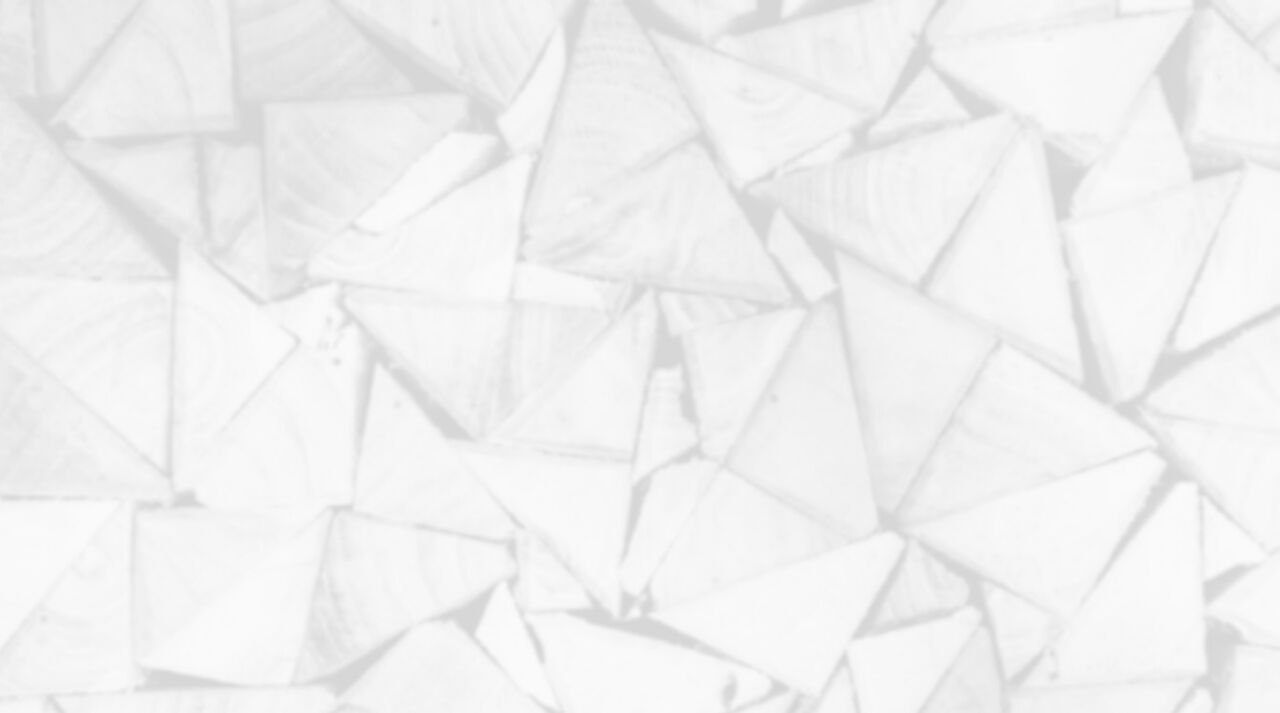
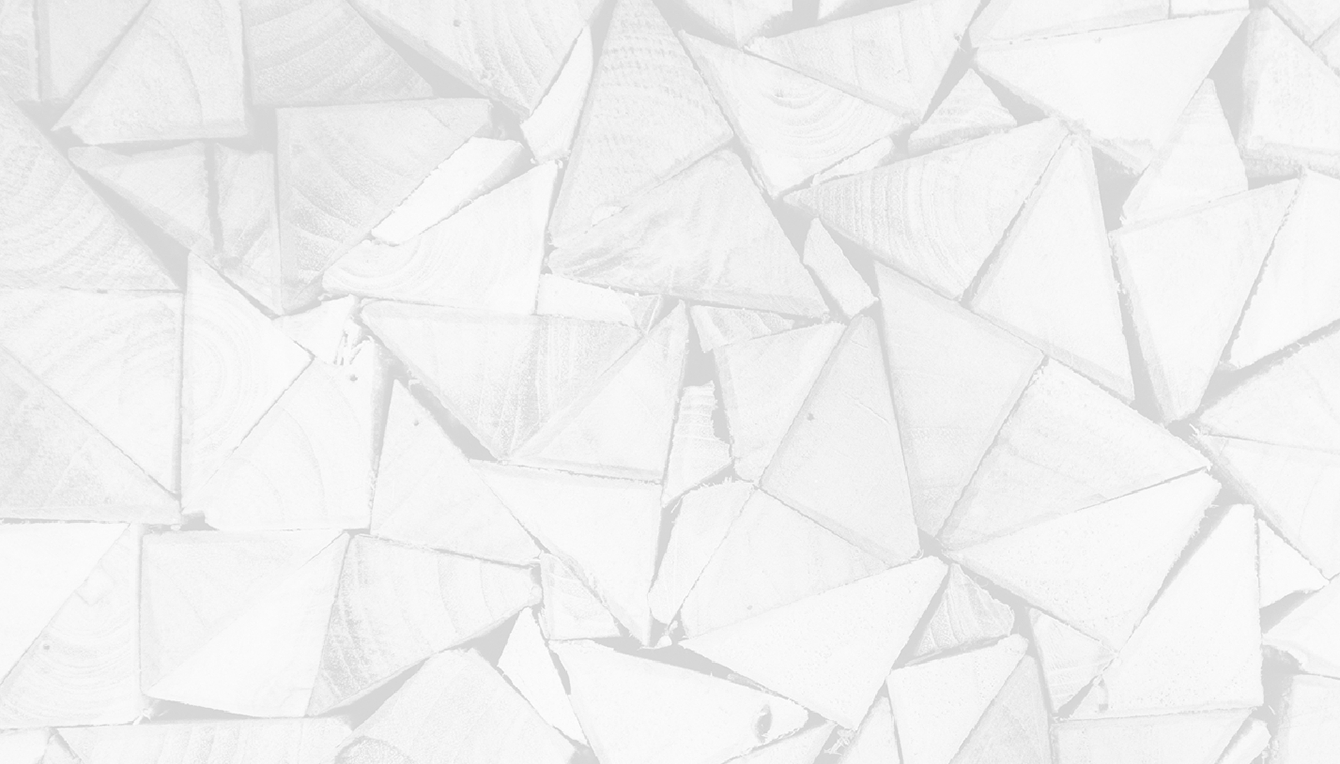
cambio fondos a equipo y trama

diff --git a/index.html b/index.html
@@ -1,1 +1,5 @@
+<<<<<<< HEAD
+<!DOCTYPE html><html><head><meta charset="utf-8"><meta http-equiv="X-UA-Compatible" content="IE=edge"><meta name="viewport" content="width=device-width, initial-scale=1.0, maximum-scale=1.0"><title>Trama</title><link href="https://cdnjs.cloudflare.com/ajax/libs/font-awesome/4.7.0/css/font-awesome.min.css" rel="stylesheet"><link href="assets/css/main.css" rel="stylesheet"></head><body><div class="home"><header class="nav-bar"><div class="contenedor"><h1 class="loguito">Equipo Trama</h1><nav class="menu"><a href="#home">Home</a><a href="#equipo">Equipo</a><a href="#servicios">Servicios</a><a href="#contacto">Contacto</a></nav></div></header><div class="sections"><section class="hero"><span class="ancla" id="home"></span><div class="contenedor"><img class="logo-responsive" src="/assets/img/logo.png"></div></section><section class="about"><div class="contenedor"><h1><i class="fa fa-puzzle-piece">TRAMA</i></h1><p>Somos un equipo de profesionales de diferentes disciplinas dedicados al tratamiento integral de niños y adolescentes. Nos reúne un mismo objetivo: acompañar su desarrollo, ayudándolos a crear y transitar su camino. Trabajamos creando un plan de tratamiento personalizado en base a las singularidades de cada caso, acompañando el desarrollo subjetivo de cada niño y promoviendo sus capacidades.</p></div></section><span class="ancla" id="servicios"></span><section class="servicios"><div class="contenedor"><h1><i class="fa fa-puzzle-piece">SERVICIOS</i></h1><div class="flex"><div class="card"><i class="fi flaticon-classroom-1"></i><p>Tratamientos de psicología, psicopedagogía, educación especial, terapia ocupacional y fonoaudiología</p></div><div class="card"><i class="fi flaticon-greetings"></i><p>Integración escolar, coordinación y supervisión</p></div><div class="card"><i class="fi flaticon-classroom"></i><p>Grupos de juego</p></div><div class="card"><i class="fi flaticon-walking"></i><p>Acompañamiento terapéutico</p></div><div class="card"><i class="fi flaticon-family-silhouette"></i><p>Orientación a padres</p></div></div></div></section><span class="ancla" id="equipo"></span><section class="equipo"><div class="contenedor"><h1><i class="fa fa-puzzle-piece">EQUIPO<br/>DE COORDINACIÓN</i></h1><div class="flex"><div class="ficha"><div class="foto" id="paula"></div><p class="nombre">Paula Fuster</p><p class="especialidad">Licenciada en Psicología</p><p class="universidad">Universidad del Salvador</p></div><div class="ficha"><div class="foto" id="eugenia"></div><p class="nombre">Maria Eugenia Bilbao</p><p class="especialidad">Licenciada en Psicología y Psicopedagogía</p><p class="universidad">Universidad del Salvador</p></div><div class="ficha"><div class="foto" id="celeste"></div><p class="nombre">Maria Celeste Zaccaria</p><p class="especialidad">Licenciada en Psicopedagogía</p><p class="universidad">Universidad Católica Argentina</p></div><div class="ficha"><div class="foto" id="valeria"></div><p class="nombre">Valeria P. Stragliotto</p><p class="especialidad">Licenciada en Psicología</p><p class="universidad">Universidad de Buenos Aires</p></div></div></div></section><span class="ancla" id="contacto"></span><section class="contacto"><div class="contenedor"><h1><i class="fa fa-puzzle-piece">CONTACTO</i></h1><div class="flex"><div class="col-mitad formulario-contacto"><form action="https://enformed.io/4604l32l" method="POST"><input type="text" name="Nombre_" placeholder="Nombre..."><input type="email" name="Email_" placeholder="E-mail..."><textarea name="Mensaje" rows="6" placeholder="Mensaje..."></textarea><input type="submit" value="Enviar"><input type="hidden" name="*redirect" value="equipotrama.com.ar"><input type="hidden" name="*honeypot"></form></div><div class="col-mitad primero"><a href="https://www.facebook.com/tramaei"><i class="fa fa-facebook-square fa-3x"></i><p>Trama<br/>Equipo Interdisciplinario</p></a><a href="mailto:info@equipotrama.com.ar"><i class="fa fa-envelope fa-3x"></i><p>info@equipotrama.com.ar</p></a><a href="#home"><i class="fa fa-map-marker fa-3x"></i><p>Consultorios<br/>Belgrano, Caballito y Palermo</p></a></div></div></div></section></div></div></body></html>
+=======
 <!DOCTYPE html><html><head><meta charset="utf-8"><meta http-equiv="X-UA-Compatible" content="IE=edge"><meta name="viewport" content="width=device-width, initial-scale=1.0, maximum-scale=1.0"><title>Trama</title><link href="https://cdnjs.cloudflare.com/ajax/libs/font-awesome/4.7.0/css/font-awesome.min.css" rel="stylesheet"><link href="assets/css/main.css" rel="stylesheet"></head><body><div class="home"><header class="nav-bar"><div class="contenedor"><h1 class="loguito">Equipo Trama</h1><nav class="menu"><a href="#home">Home</a><a href="#equipo">Equipo</a><a href="#servicios">Servicios</a><a href="#contacto">Contacto</a></nav></div></header><div class="sections"><span class="ancla" id="home"></span><section class="hero"><div class="contenedor"><img class="logo-responsive" src="/assets/img/logo.png"></div></section><section class="about"><div class="contenedor"><h1><i class="fa fa-puzzle-piece">TRAMA</i></h1><p>Somos un equipo de profesionales de diferentes disciplinas dedicados al tratamiento integral de niños y adolescentes. Nos reúne un mismo objetivo: acompañar su desarrollo, ayudándolos a crear y transitar su camino. Trabajamos creando un plan de tratamiento personalizado en base a las singularidades de cada caso, acompañando el desarrollo subjetivo de cada niño y promoviendo sus capacidades.</p></div></section><span class="ancla" id="servicios"></span><section class="servicios"><div class="contenedor"><h1><i class="fa fa-puzzle-piece">SERVICIOS</i></h1><div class="flex"><div class="card"><i class="fi flaticon-classroom-1"></i><p>Tratamientos de psicología, psicopedagogía, educación especial, terapia ocupacional y fonoaudiología</p></div><div class="card"><i class="fi flaticon-greetings"></i><p>Integración escolar, coordinación y supervisión</p></div><div class="card"><i class="fi flaticon-classroom"></i><p>Grupos de juego</p></div><div class="card"><i class="fi flaticon-walking"></i><p>Acompañamiento terapéutico</p></div><div class="card"><i class="fi flaticon-family-silhouette"></i><p>Orientación a padres</p></div></div></div></section><span class="ancla" id="equipo"></span><section class="equipo"><div class="contenedor"><h1><i class="fa fa-puzzle-piece">EQUIPO<br/>DE COORDINACIÓN</i></h1><div class="flex"><div class="ficha"><div class="foto" id="paula"></div><p class="nombre">Paula Fuster</p><p class="especialidad">Licenciada en Psicología</p><p class="universidad">Universidad del Salvador</p></div><div class="ficha"><div class="foto" id="eugenia"></div><p class="nombre">Maria Eugenia Bilbao</p><p class="especialidad">Licenciada en Psicología y Psicopedagogía</p><p class="universidad">Universidad del Salvador</p></div><div class="ficha"><div class="foto" id="celeste"></div><p class="nombre">Maria Celeste Zaccaria</p><p class="especialidad">Licenciada en Psicopedagogía</p><p class="universidad">Universidad Católica Argentina</p></div><div class="ficha"><div class="foto" id="valeria"></div><p class="nombre">Valeria P. Stragliotto</p><p class="especialidad">Licenciada en Psicología</p><p class="universidad">Universidad de Buenos Aires</p></div></div></div></section><span class="ancla" id="contacto"></span><section class="contacto"><div class="contenedor"><h1><i class="fa fa-puzzle-piece">CONTACTO</i></h1><div class="flex"><div class="col-mitad formulario-contacto"><form action="https://enformed.io/4604l32l" method="POST"><input type="text" name="Nombre_" placeholder="Nombre..."><input type="email" name="Email_" placeholder="E-mail..."><textarea name="Mensaje" rows="6" placeholder="Mensaje..."></textarea><input type="submit" value="Enviar"><input type="hidden" name="*redirect" value="equipotrama.com.ar"><input type="hidden" name="*honeypot"></form></div><div class="col-mitad primero"><a href="https://www.facebook.com/tramaei"><i class="fa fa-facebook-square fa-3x"></i><p>Trama<br/>Equipo Interdisciplinario</p></a><a href="mailto:info@equipotrama.com.ar"><i class="fa fa-envelope fa-3x"></i><p>info@equipotrama.com.ar</p></a><a href="#home"><i class="fa fa-map-marker fa-3x"></i><p>Consultorios<br/>Belgrano, Caballito y Palermo</p></a></div></div></div></section></div></div></body></html>
+>>>>>>> cb83aa6... agrego 'equipo' a menu

diff --git a/assets/css/main.css b/assets/css/main.css
@@ -472,11 +472,8 @@ body {
 
 .sections {
   background-image: url(/assets/img/bg-home.jpg);
-  background-repeat: repeat; }
-
-@media (max-width: 640px) {
-  .sections {
-    padding-top: 80px; } }
+  background-repeat: repeat;
+  background-content: cover; }
 
 .contenedor {
   width: 85%;
@@ -579,12 +576,17 @@ body {
       margin-right: auto; }
       .nav-bar .contenedor .menu a {
         font-size: 16px; } }
+<<<<<<< HEAD
+
+.hero #home {
+  margin-top: 20px; }
+=======
+>>>>>>> cb83aa6... agrego 'equipo' a menu
 
 .hero .contenedor {
   margin: 0 auto;
   text-align: center;
-  padding-bottom: 50px;
-  padding-top: 100px; }
+  padding-bottom: 50px; }
 
 .hero .logo-responsive {
   margin: 0 auto;
@@ -592,7 +594,7 @@ body {
   height: auto; }
 
 .about {
-  background: rgba(50, 168, 155, 0.55);
+  background: url(/assets/img/bg-trama.jpg);
   text-align: center;
   font-family: "Sansita", sans-serif;
   line-height: 1.6;
@@ -604,12 +606,13 @@ body {
   .hero .contenedor {
     width: 100%;
     padding-top: 50px;
-    min-height: 60vh;
+    min-height: 70vh;
     overflow: hidden; }
     .hero .contenedor .logo-responsive {
       min-width: 100px;
       max-width: 300px;
-      margin: 0 auto; } }
+      margin: 0 auto;
+      margin-top: 50px; } }
 
 .servicios .contenedor {
   padding: 40px 0;
@@ -649,7 +652,7 @@ body {
     padding: 5px; } }
 
 .equipo {
-  background-color: rgba(100, 0, 160, 0.6);
+  background: url(/assets/img/bg-equipo.jpg);
   padding: 40px 0; }
   .equipo h1 {
     color: white; }
